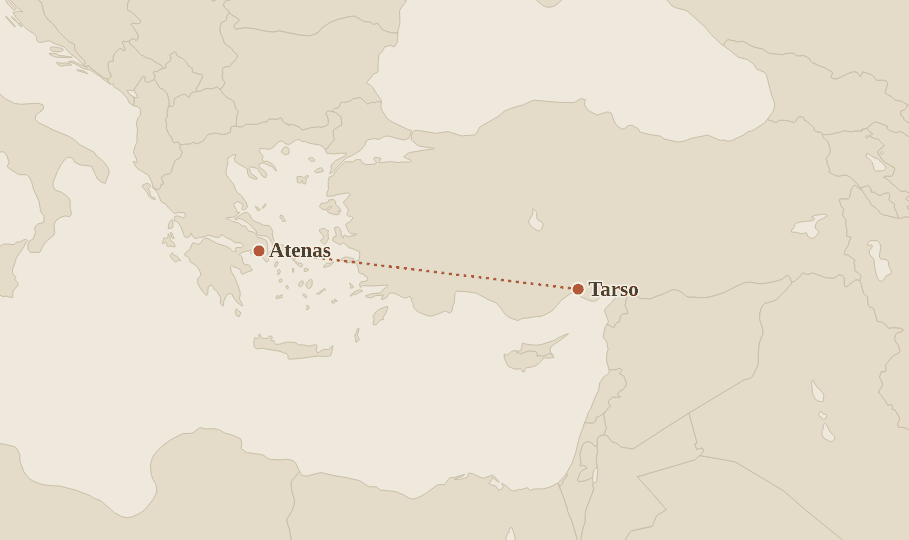
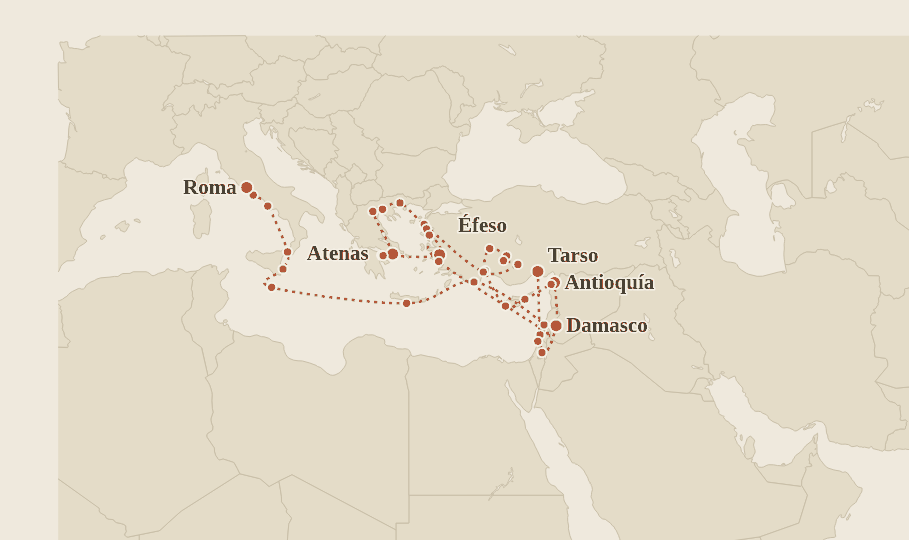
Dibuja el viaje entero de Pablo, con 36 paradas
La tarjeta enseñaba Tarso y Atenas. Ahora lleva las treinta y seis
ciudades que Hechos nombra explícitamente, en el orden del relato, desde
Tarso hasta Roma pasando por Chipre, Galacia, Macedonia, Acaya y el
naufragio de Malta.

Solo seis llevan el nombre escrito. Rotularlas todas era imposible, y no
por falta de espacio entre los puntos: encuadrar() reserva a la derecha
el ancho de la etiqueta más larga, y «Antioquía de Siria» por sí sola
empujaba Roma fuera de lo que la tarjeta llega a enseñar. En esta ficha
se acorta a «Antioquía», que es lo que la especificación ya permitía.

Al juntar tantas paradas salió a la luz un fallo viejo del colocador de
etiquetas: cuando ninguna posición quedaba libre, forzaba la primera, y
dos nombres acababan impresos uno encima del otro —«Atenas» y «Éfeso» se
pisaban—. Ahora prueba posiciones cada vez más apartadas del punto y, si
aun así no hay ninguna limpia, se queda con la que menos tape.

Claude-Session: https://claude.ai/code/session_01JHvLDDGnVRZVayoq2rmCHi

diff --git a/admin/mapa.js b/admin/mapa.js
@@ -283,19 +283,30 @@ function colocarEtiquetas(ctx, marco, lugares) {
     const p = proyectar(marco, lugar.lon, lugar.lat);
     const w = ctx.measureText(lugar.label).width;
     const s = ETIQUETA.separacion;
-    const candidatos = [
-      [p.x + s, p.y + ETIQUETA.linea],
-      [p.x - s - w, p.y + ETIQUETA.linea],
-      [p.x + s, p.y - 9],
-      [p.x + s, p.y + 22],
-      [p.x - s - w, p.y - 9],
-      [p.x - s - w, p.y + 22],
-      [p.x - w / 2, p.y - 12],
-      [p.x - w / 2, p.y + 25],
-    ];
-    const elegido = candidatos.find(([x, base]) =>
-      !ocupado.some(o => chocan(o, caja(x - 2, base - 17, w + 4, 22)))) || candidatos[0];
-    ocupado.push(caja(elegido[0] - 2, elegido[1] - 17, w + 4, 22));
+    const candidatos = [];
+    // Primero pegada al punto, y si ahí no cabe se va apartando. En un mapa con
+    // muchas paradas las cuatro posiciones de siempre se agotan enseguida.
+    for (const salto of [0, 14, 28, 44]) {
+      candidatos.push(
+        [p.x + s + salto, p.y + ETIQUETA.linea],
+        [p.x - s - w - salto, p.y + ETIQUETA.linea],
+        [p.x + s + salto * 0.6, p.y - 9 - salto],
+        [p.x + s + salto * 0.6, p.y + 22 + salto],
+        [p.x - s - w - salto * 0.6, p.y - 9 - salto],
+        [p.x - s - w - salto * 0.6, p.y + 22 + salto],
+        [p.x - w / 2, p.y - 12 - salto],
+        [p.x - w / 2, p.y + 25 + salto],
+      );
+    }
+
+    const marca = ([x, base]) => caja(x - 2, base - 17, w + 4, 22);
+    const solape = c => ocupado.reduce((s2, o) => s2 + area(o, marca(c)), 0);
+    // Si ninguna posición queda limpia, gana la que menos tape: forzar siempre
+    // la primera es lo que dejaba dos nombres impresos uno encima del otro.
+    let elegido = candidatos.find(c => solape(c) === 0);
+    if (!elegido) elegido = candidatos.reduce((a, b) => (solape(b) < solape(a) ? b : a));
+
+    ocupado.push(marca(elegido));
     puestas.push({ texto: lugar.label, x: elegido[0], base: elegido[1] });
   }
 
@@ -305,6 +316,8 @@ function colocarEtiquetas(ctx, marco, lugares) {
 
 const caja = (x, y, w, h) => ({ x0: x, y0: y, x1: x + w, y1: y + h });
 const chocan = (a, b) => a.x0 < b.x1 && b.x0 < a.x1 && a.y0 < b.y1 && b.y0 < a.y1;
+const area = (a, b) => Math.max(0, Math.min(a.x1, b.x1) - Math.max(a.x0, b.x0))
+                     * Math.max(0, Math.min(a.y1, b.y1) - Math.max(a.y0, b.y0));
 
 /**
  * Resuelve la especificación de una tarjeta contra el nomenclátor.
